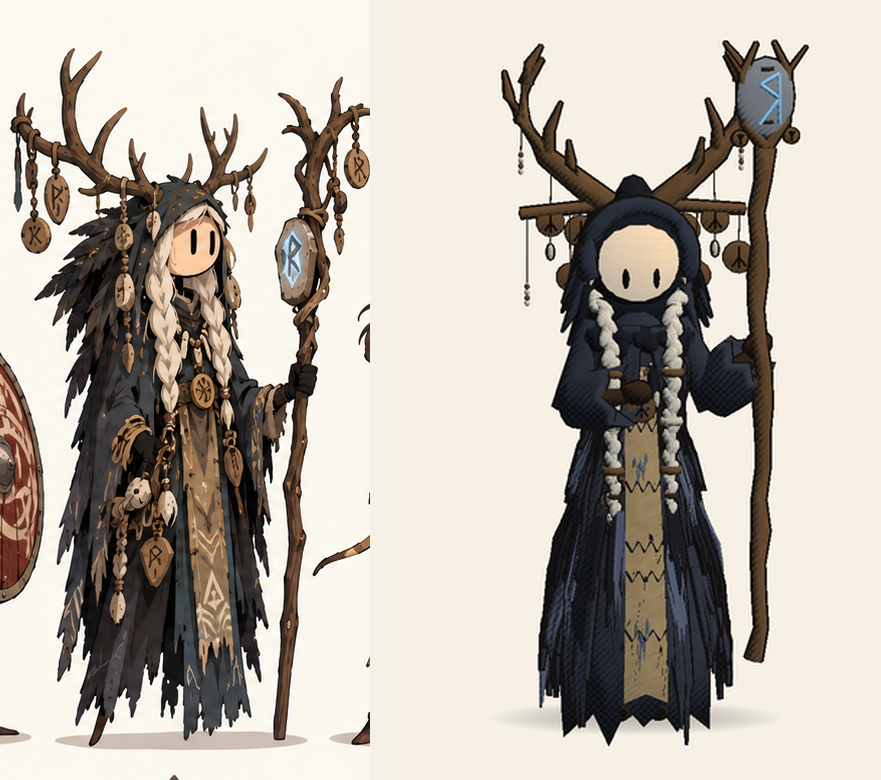
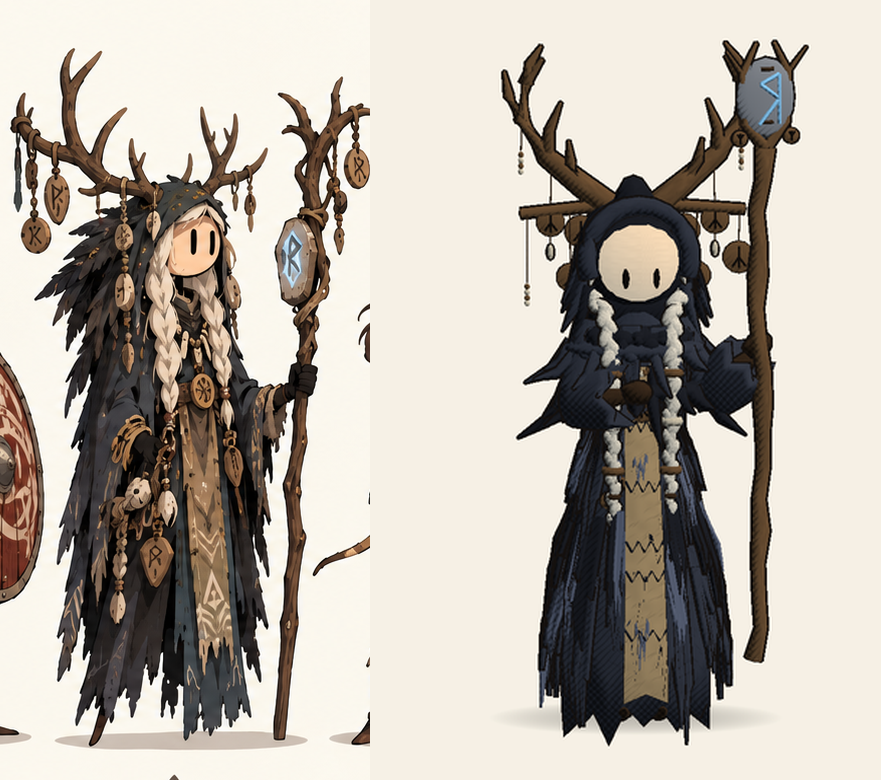
Old Seer pass 5: ragged feathers spreading off the shoulders
Two rings of long feathers under the shoulders point out and down, giving
the seer the spiky, ragged outline of the concept art instead of a smooth
round robe.

Claude-Session: https://claude.ai/code/session_01SCdejJ1UF8RUxAkkFhZXGU

Changed region(s): [[0.5823, 0.4308, 0.8581, 0.5846]]

diff --git a/OdinsCoin/Assets/Scripts/Characters/Garments.cs b/OdinsCoin/Assets/Scripts/Characters/Garments.cs
@@ -869,6 +869,9 @@ namespace OdinsCoin
             }
             // Feathers bristling round the shoulders.
             d.Add(Joints.Body, d.pal.clothDark, CharacterKit.FurRing(new Vector3(0f, f.shoulderY - 0.01f * s, 0f), f.shoulderX + 0.02f * s, 0.8f, 0.05f * s, 24, 0.1f * s, d.seed + 67, 1.4f));
+            // Long ragged feathers spreading off the shoulders, points out and down: the seer's spiky outline.
+            d.Add(Joints.Body, d.pal.cloth, CharacterKit.FurRing(new Vector3(0f, f.shoulderY - 0.05f * s, -0.01f * s), f.shoulderX + 0.07f * s, 0.75f, 0.035f * s, 20, 0.22f * s, d.seed + 68, 0.45f));
+            d.Add(Joints.Body, d.pal.clothDark, CharacterKit.FurRing(new Vector3(0f, f.chest - 0.06f * s, -0.01f * s), f.shoulderX + 0.09f * s, 0.75f, 0.035f * s, 18, 0.24f * s, d.seed + 69, 0.6f));
             // Ragged sleeves hanging from the arms.
             foreach (var arm in new[] { Joints.LeftArm, Joints.RightArm })
             {
